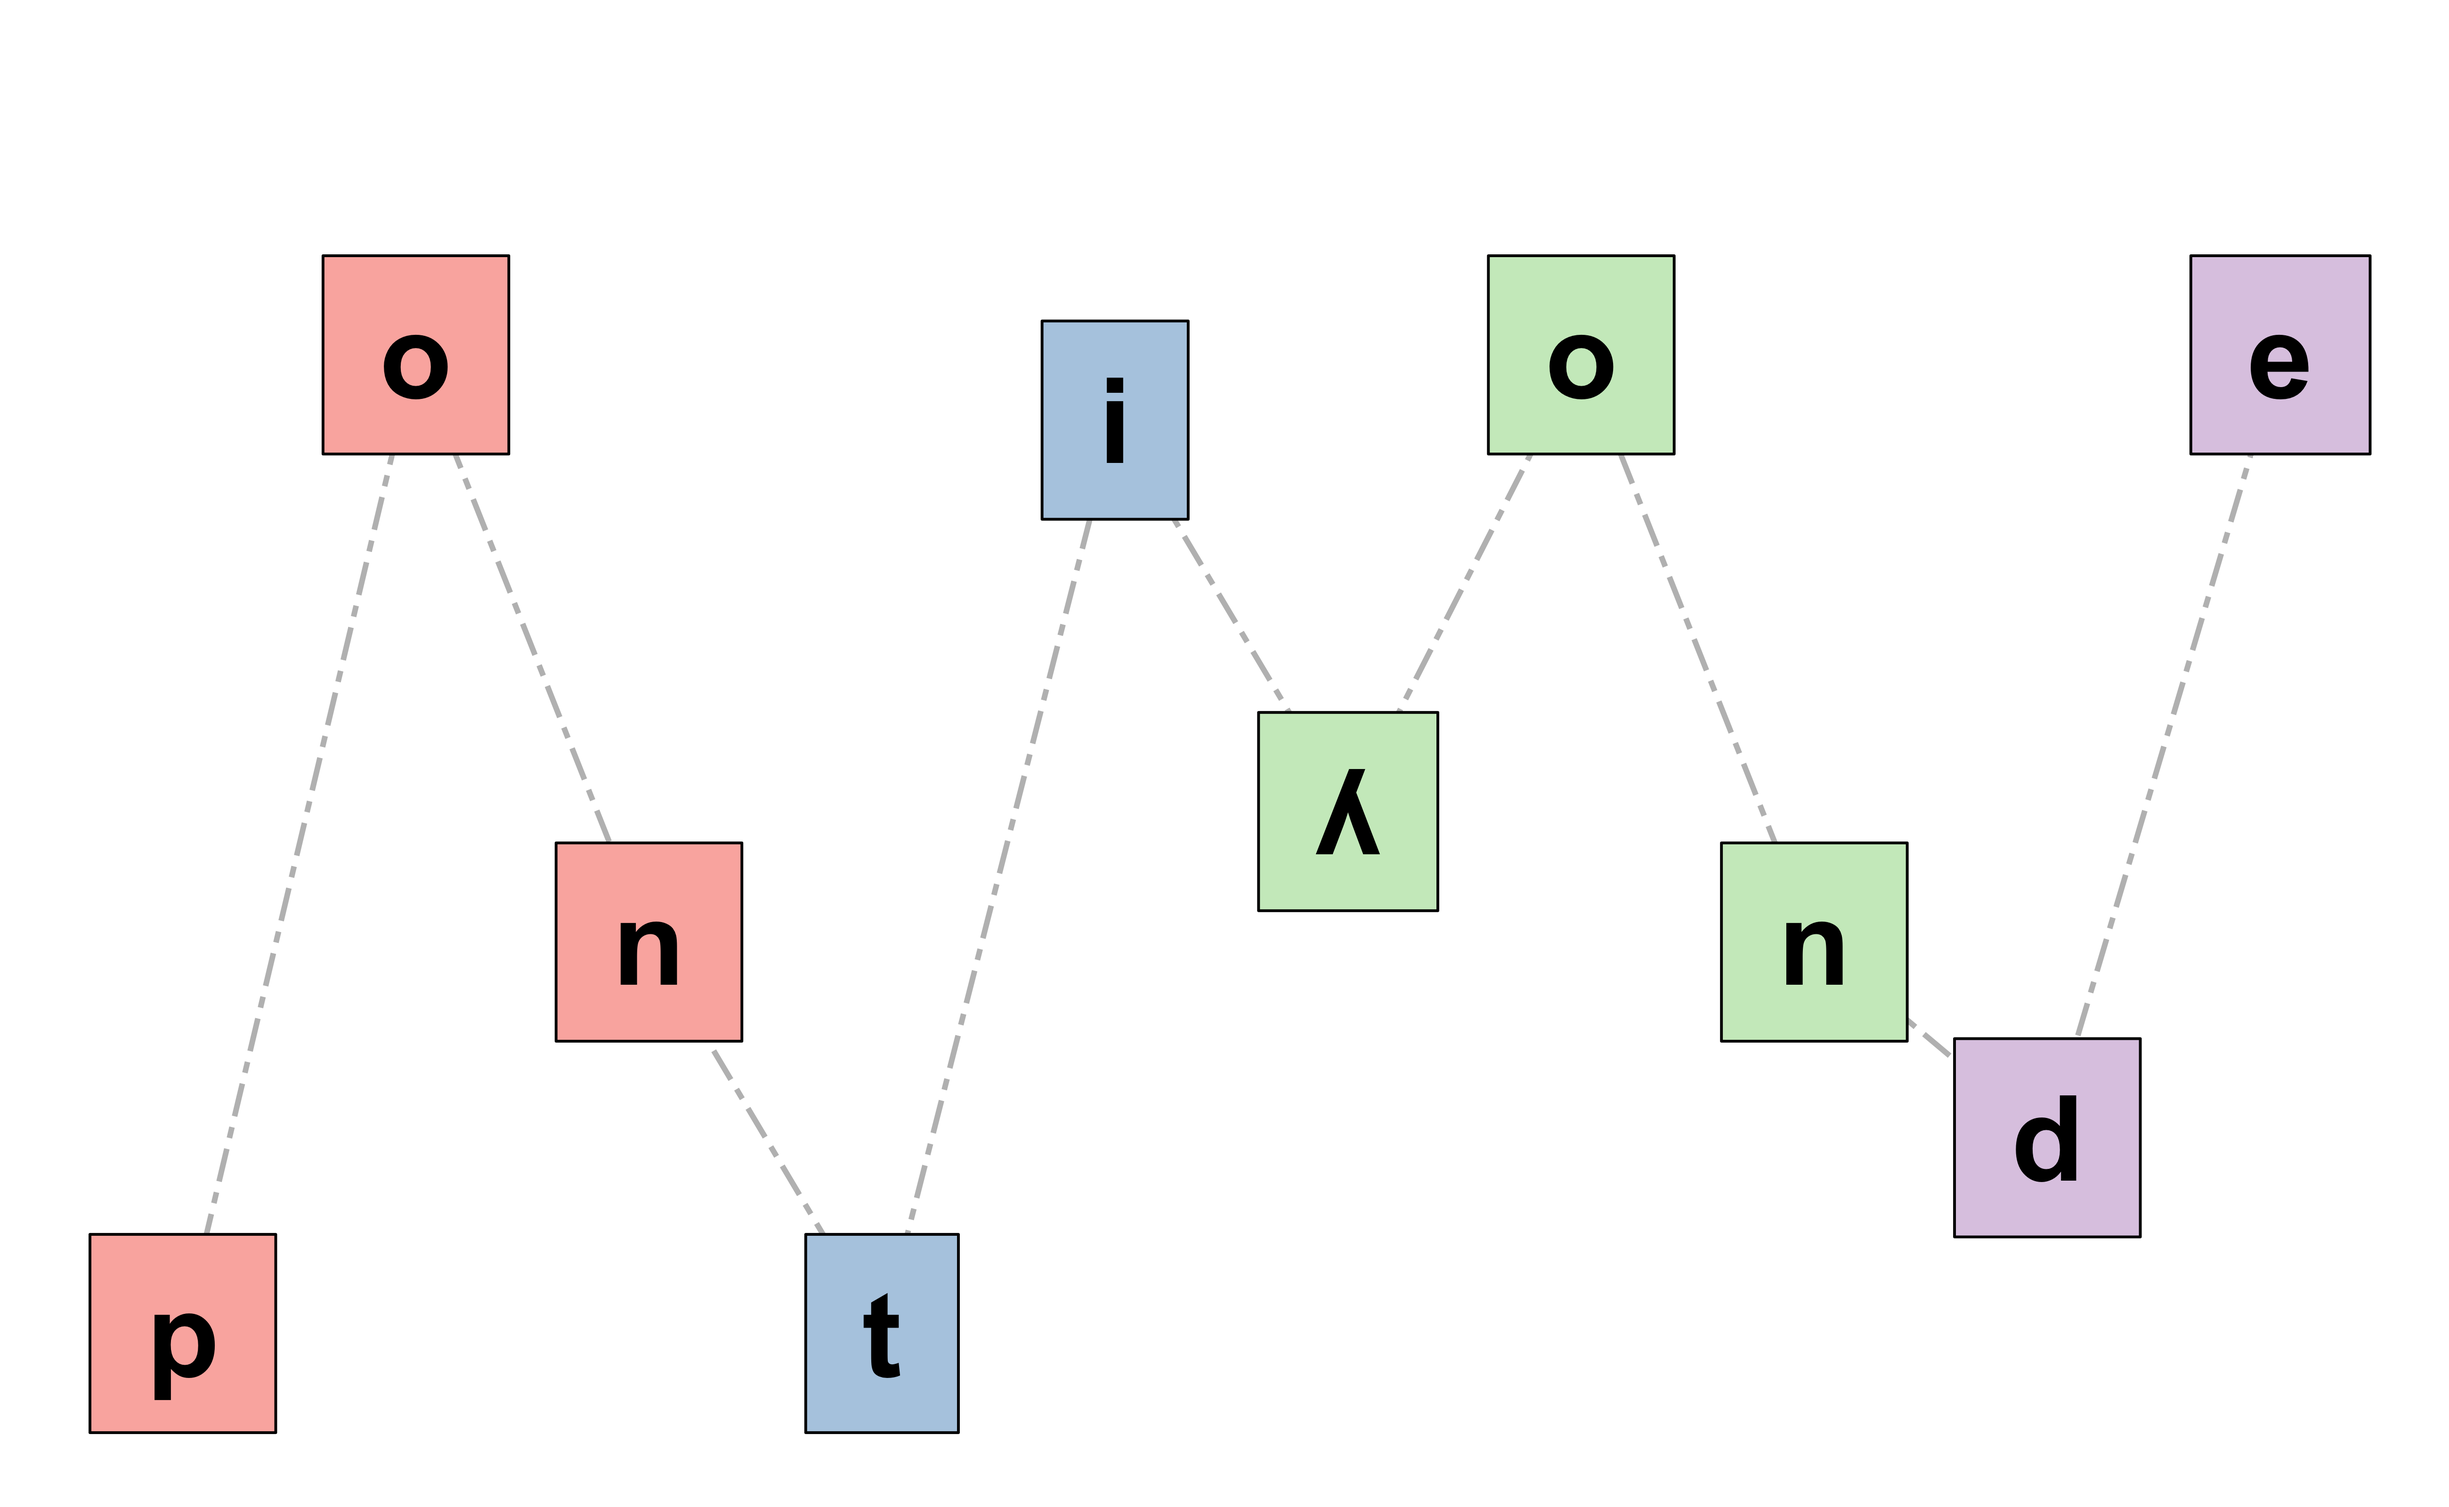
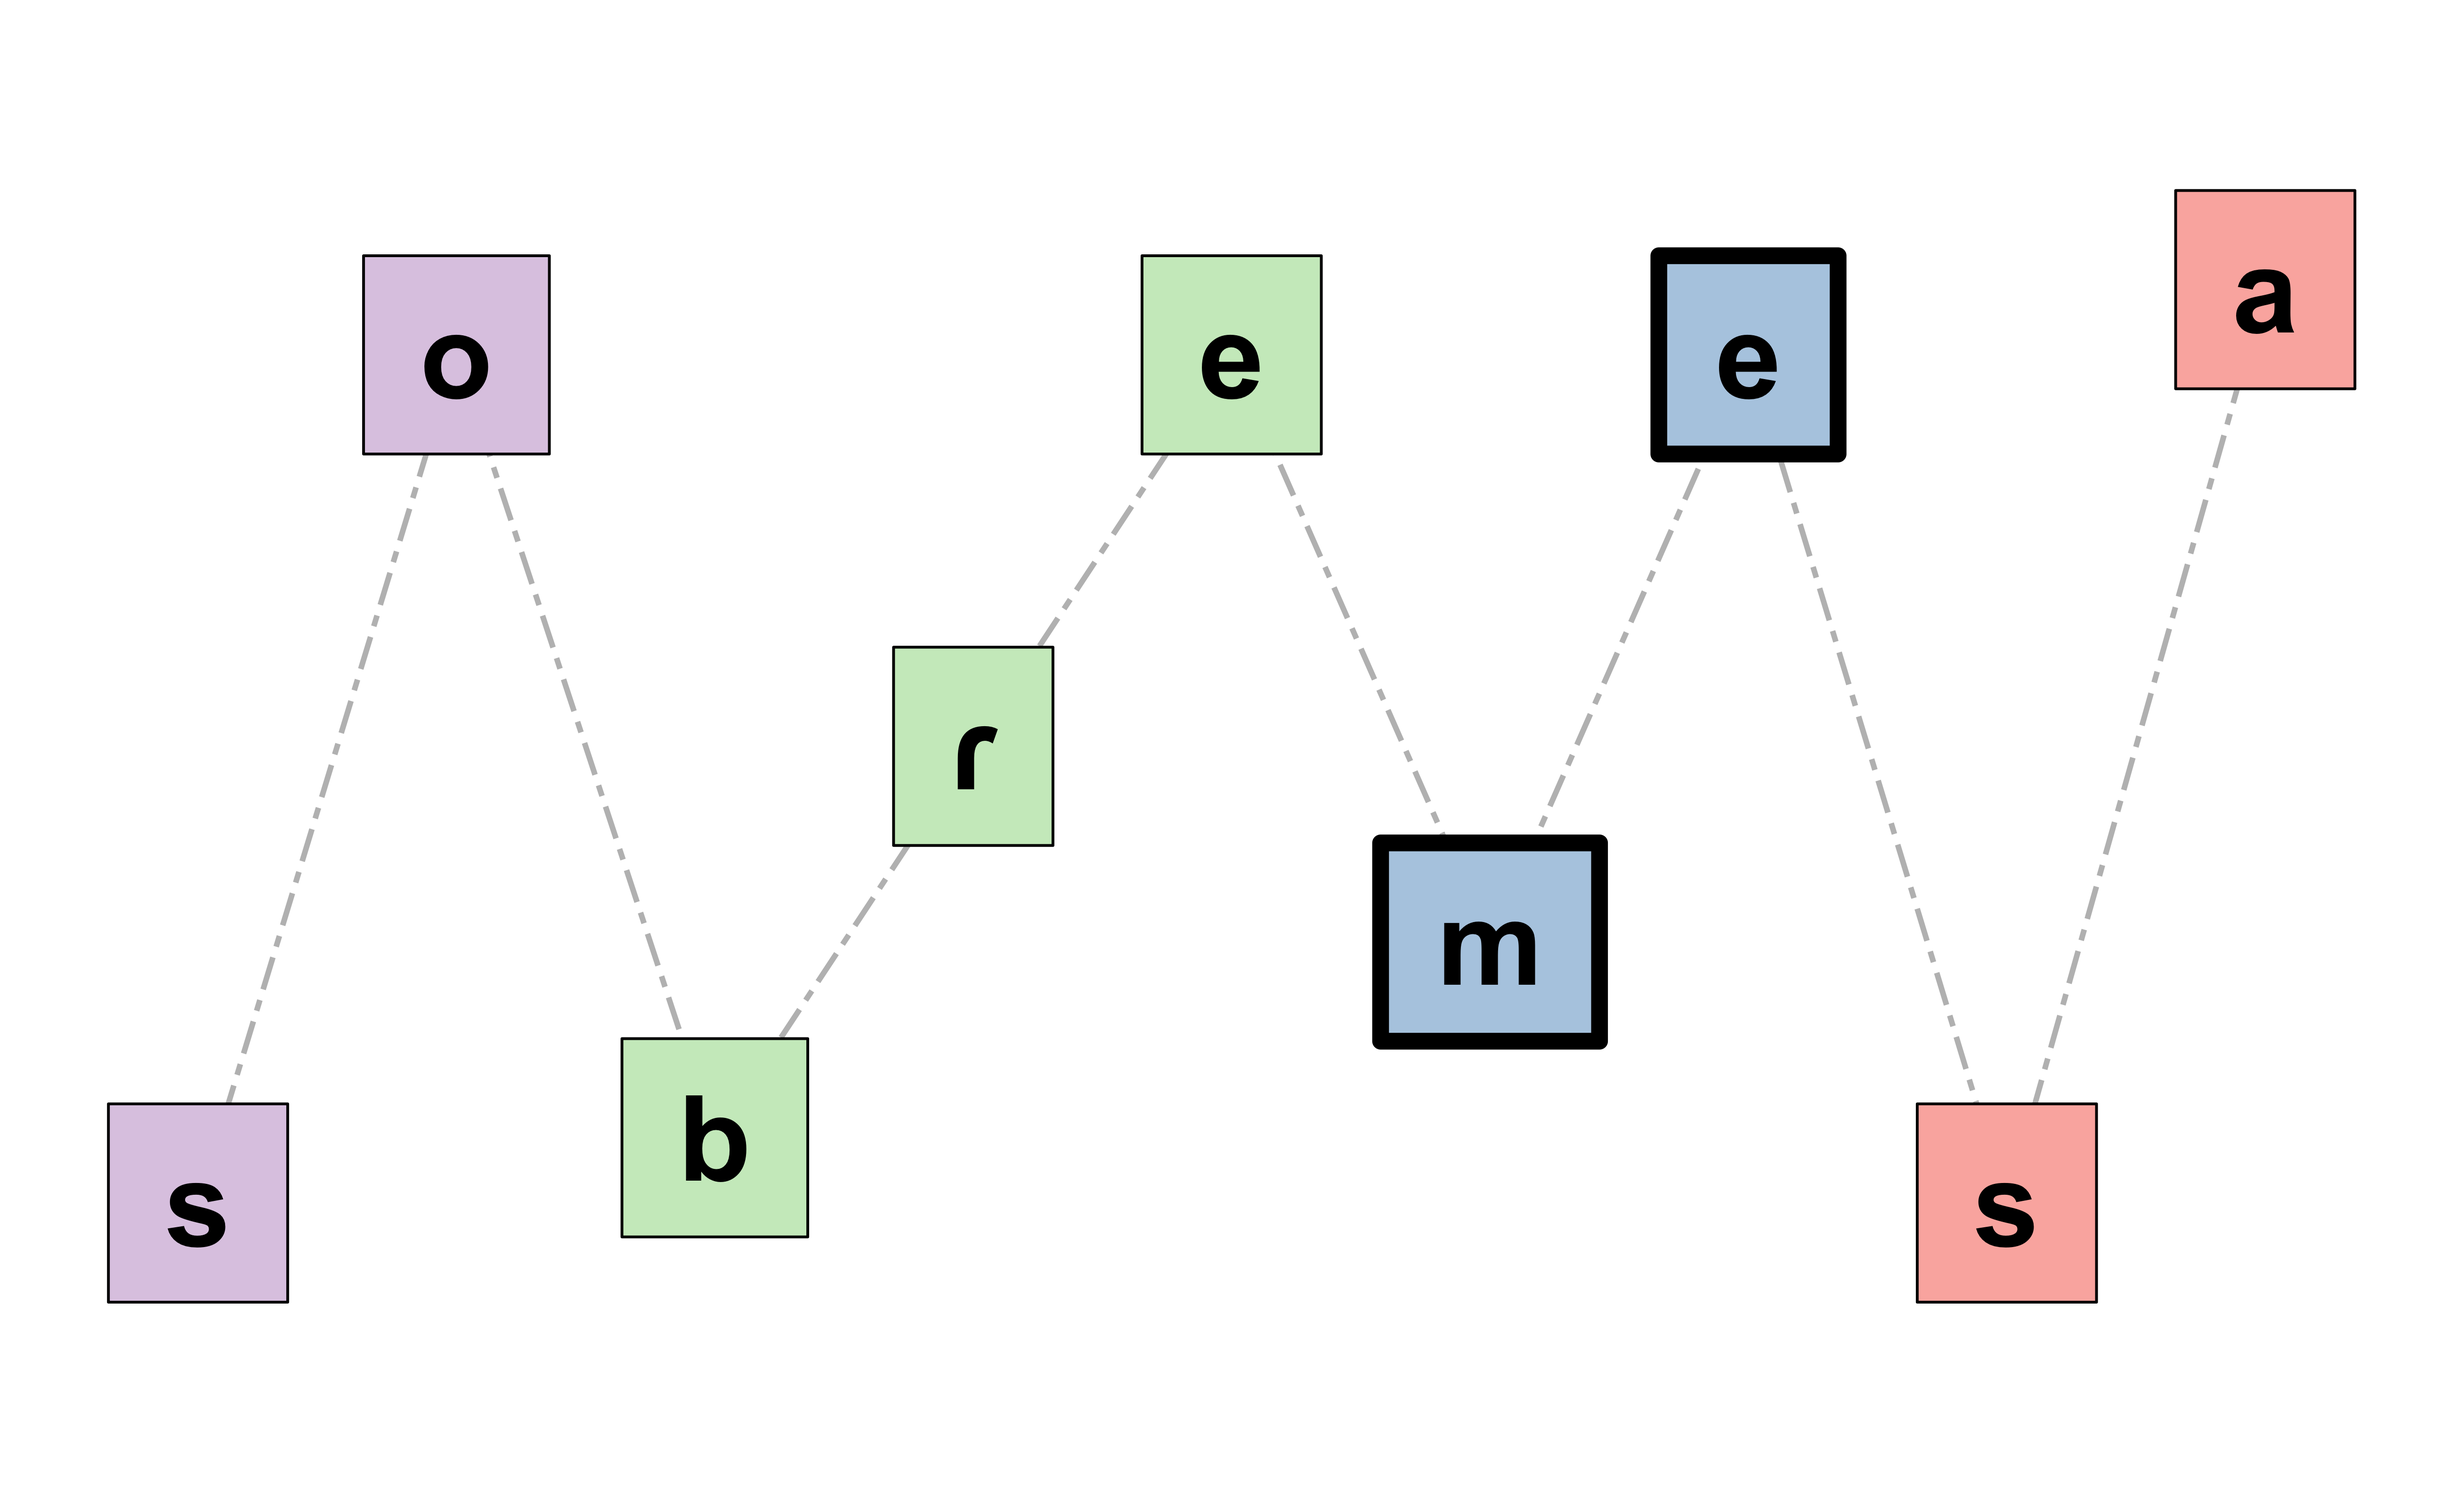
updated

diff --git a/index.html b/index.html
@@ -20,7 +20,7 @@
     <script src="libs/xaringanExtra-search/search.js"></script>
     <script>window.addEventListener('load', function() { window.xeSearch = new RemarkSearch({"position":"bottom-left","caseSensitive":false,"showIcon":true,"autoSearch":true}) })</script>
     <script src="libs/xaringanExtra-progressBar/progress-bar.js"></script>
-    <script type="application/json" id="xaringanExtra-editable-docid">{"id":"xd9ea2fffd3d43dfa8f515ff923f610f","expires":14}</script>
+    <script type="application/json" id="xaringanExtra-editable-docid">{"id":"xdc073dbb7e643e4a02fdf4de3050b7c","expires":14}</script>
     <script src="libs/himalaya/himalaya.js"></script>
     <script src="libs/js-cookie/js.cookie.js"></script>
     <link href="libs/editable/editable.css" rel="stylesheet" />
@@ -183,7 +183,7 @@ ipa_pt("tipos")
 ipa_pt("quiséssemos")
 #&gt; [1] "ki.ˈzɛ.se.mos"
 ipa_pt("parangaricutirrimirruaro")
-#&gt; [1] "pa.ɾan.ga.ɾi.ku.ti.xi.mi.xu.ˈa.ɾo"
+#&gt; [1] "pa.ɾan.ga.ɾi.ku.ti.xi.mi.ˈxu.a.ɾo"
 ```
 
 --
@@ -206,7 +206,7 @@ ipa_pt("tipos", narrow = T)
 ipa_pt("quiséssemos", narrow = T)
 #&gt; [1] "ki.ˈzɛ.se.mʊs"
 ipa_pt("parangaricutirrimirruaro", narrow = T)
-#&gt; [1] "ˌpa.ɾãŋ.ˌga.ɾi.ˌku.t͡ʃi.ˌxi.mi.ˈxu.a.ɾʊ"
+#&gt; [1] "pa.ˌɾãŋ.ga.ˌɾi.ku.ˌt͡ʃi.xi.ˌmi.xu.ˈa.ɾʊ"
 ```
 
 - **Not vectorized** (i.e., serial): ideal for *one* input
@@ -218,22 +218,22 @@ ipa_pt("parangaricutirrimirruaro", narrow = T)
 ## Example 3: transcription *en masse*
 
 - &lt;h-l&gt;Crucial&lt;/h-l&gt;: being able to transcribe a lot of words *quickly*
-- `ipa_pt_vec(...)`: vectorized
+- `ipa(...)`: vectorized (&lt;h-l&gt;Portuguese and Spanish&lt;/h-l&gt;)
 
 
 
 ```r
-ipa_pt_vec(word = c("Example", "com", "múltiplas", "palavras"))
+ipa(word = c("Example", "com", "múltiplas", "palavras"))
 #&gt; [1] "e.ˈzam.ple"   "ˈkom"         "ˈmul.ti.plas" "pa.ˈla.vɾas"
 ```
 
 --
 
-- Narrow transcription also available:
+- Narrow transcription also available (for Portuguese only):
 
 
 ```r
-ipa_pt_vec(word = c("Encontramos", "transcrição", "fonética", "fina", "também"), narrow = T)
+ipa(word = c("Encontramos", "transcrição", "fonética", "fina", "também"), narrow = T)
 #&gt; [1] "ˌẽj̃ɲ.kõn.ˈtɾã.mʊs" "ˌtɾãns.kɾi.ˈsãw̃"   "fo.ˈnɛ.t͡ʃi.kɐ"    
 #&gt; [4] "ˈfĩ.nɐ"            "tãm.ˈbẽj̃ɲ"
 ```
@@ -246,7 +246,7 @@ ipa_pt_vec(word = c("Encontramos", "transcrição", "fonética", "fina", "també
 
 ## Example 4: short text 💬
 
-- `ipa_pt_vec()` requires tokenized inputs
+- `ipa()` requires tokenized inputs
 - What if our input is a text...?
 - &lt;mark&gt;`cleanText()`&lt;/mark&gt;: data cleaning and tokenization
 
@@ -258,7 +258,7 @@ text = "Este é um teXto 123# bastante cUrto que Não está tokenizado"
 
 text |&gt; 
 * cleanText() |&gt;
-  ipa_pt_vec()
+  ipa()
 #&gt;  [1] "ˈes.te"          "ˈɛ"              "ˈum"             "ˈtes.to"        
 #&gt;  [5] "bas.ˈtan.te"     "ˈkuɾ.to"         "ˈke"             "ˈnãw̃"           
 #&gt;  [9] "es.ˈta"          "to.ke.ni.ˈza.do"
@@ -275,7 +275,7 @@ text |&gt;
 text = "Este é um teXto 123# bastante cUrto que Não está tokenizado"
 
 d = tibble(word = text |&gt; cleanText()) |&gt; # Words
-  mutate(ipa = word |&gt; ipa_pt_vec()) # IPA
+  mutate(ipa = word |&gt; ipa()) # IPA
 ```
 
 --
@@ -320,8 +320,9 @@ d = tibble(word = text |&gt; cleanText()) |&gt; # Words
 ## Example 6: from long text to tibble 📚
 
 - `getStress()`: extracts stress from transcription
+- `getWeight()`: extracts weight profile (e.g., `LLH`)
 - `getSyl()`: extracts a given syllable
-- `stopwords_pt`: stopwords in Portuguese (adapted from `tm` package)
+- `stopwords_pt` and `stopwords_sp`: stopwords in (adapted from `tm` package)
 - &lt;mark&gt;`syllable()`&lt;/mark&gt;: extracts syllabic constituents
 
 
@@ -333,7 +334,7 @@ lus2 = lus1 |&gt;
   as_tibble() |&gt; 
   rename(word = value) |&gt; 
   filter(!word %in% stopwords_pt) |&gt; # stopword removal
-  mutate(ipa = ipa_pt_vec(word), # column for transcription
+  mutate(ipa = ipa(word), # column for transcription
          stress = getStress(ipa), # column for stress
          finSyl = getSyl(word = ipa, pos = 1), # column for final syllable
 *        onsetFin = syllable(finSyl, const = "onset"),
@@ -471,7 +472,7 @@ syllables |&gt;
 
 ```r
 "combradol" |&gt; 
-  ipa_pt() |&gt; 
+  ipa() |&gt; 
 * plotSon(syl = F)
 ```
 
@@ -484,8 +485,8 @@ syllables |&gt;
 
 
 ```r
-"pontilhonde" |&gt; 
-  ipa_pt() |&gt; 
+"sobremesa" |&gt; 
+  ipa(lg = "Spanish") |&gt; 
 * plotSon(syl = T)
 ```
 
@@ -662,7 +663,7 @@ pt_lex |&gt; sample_n(5)
 ```r
 lus_bigramas = lus1 |&gt; 
   cleanText() |&gt; 
-  ipa_pt_vec() |&gt; 
+  ipa() |&gt; 
 * biGramTbl()
 ```
 
@@ -822,7 +823,7 @@ ggplot(data = vowels, aes(x = F2, y = F1, color = vowel, label = vowel)) +
 
 
 ```r
-ipa_pt("obrigado") |&gt; 
+ipa("obrigado") |&gt; 
   plotSon(syl = T)
 ```
 
